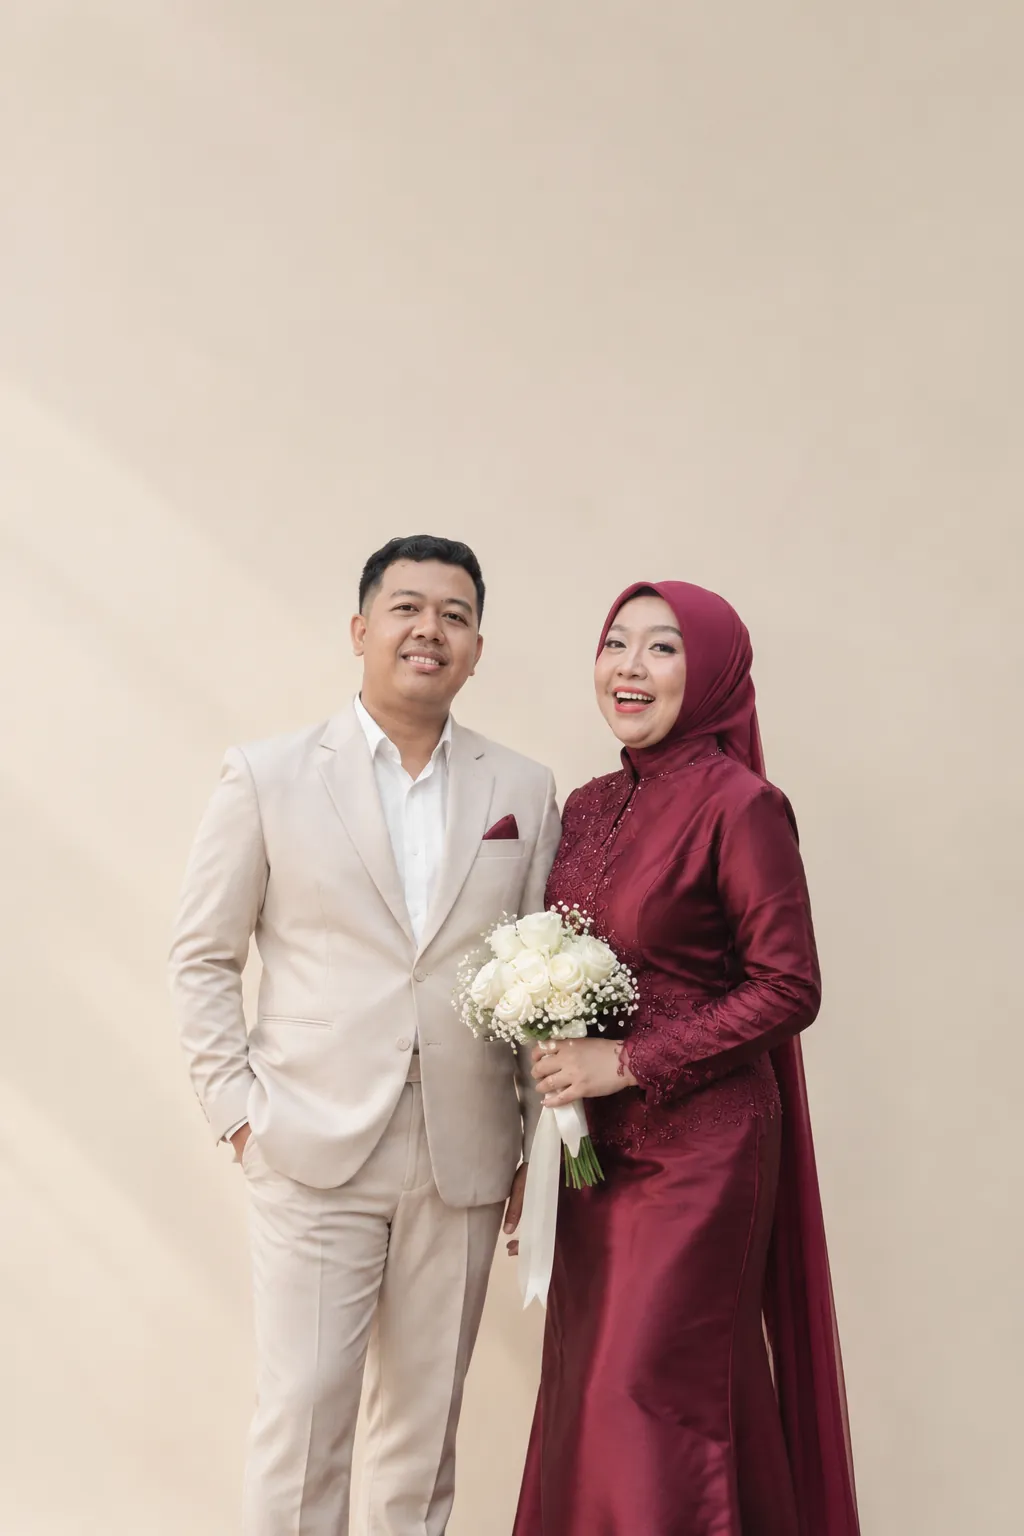
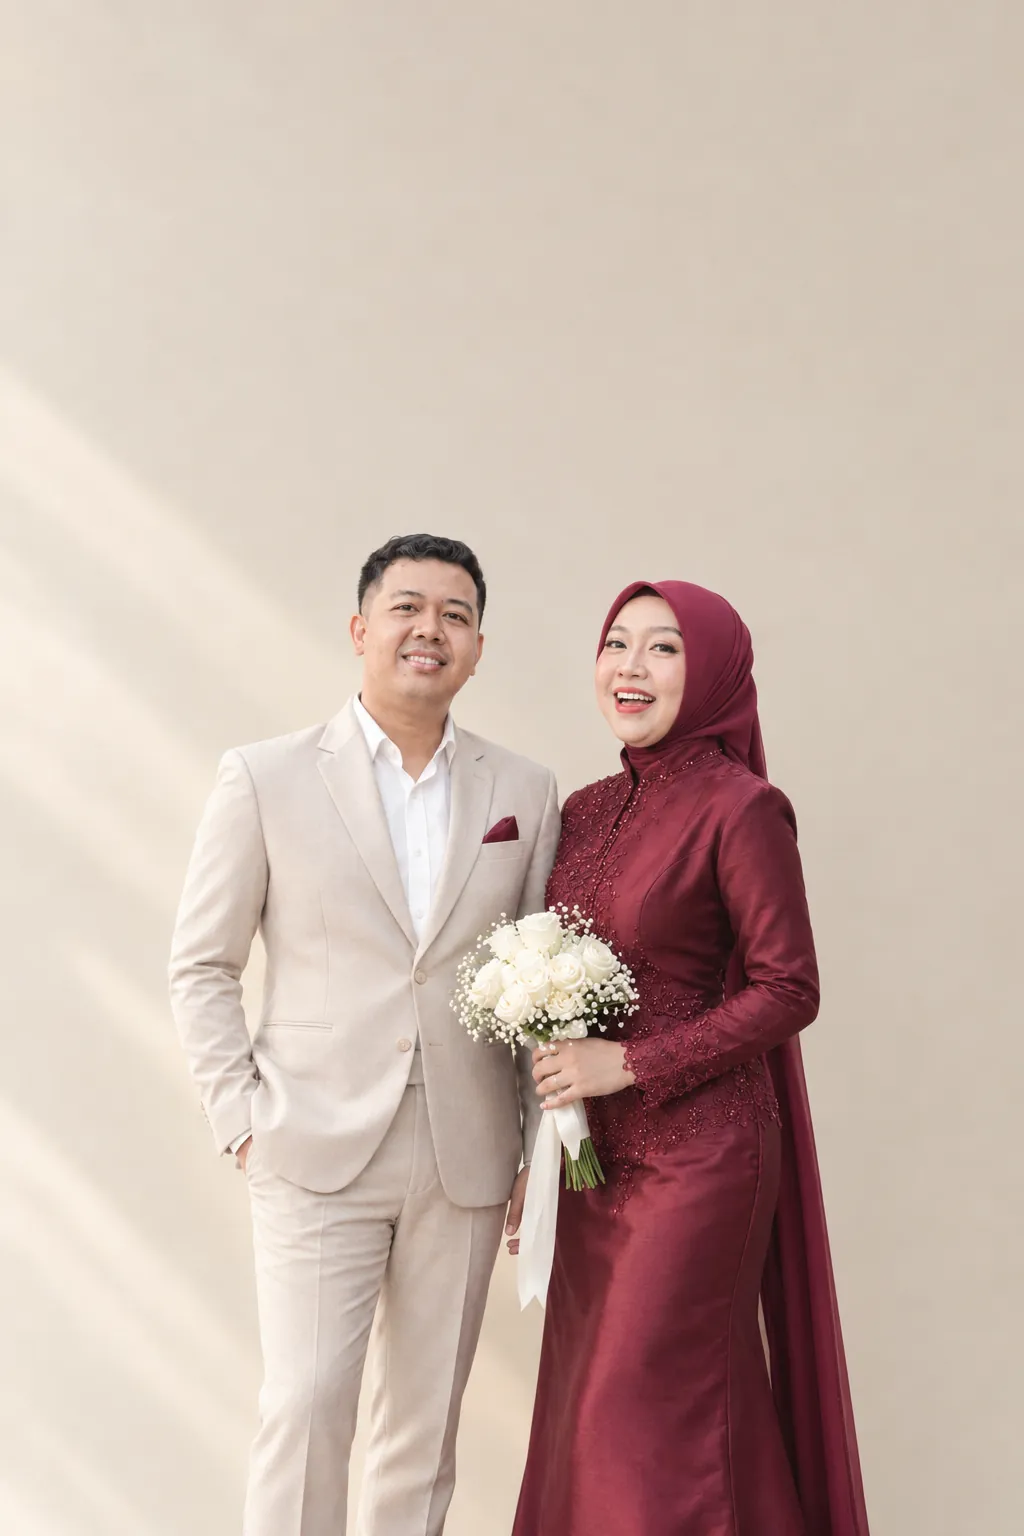
Use retouched couple photos
- Replace the prewed photo (cover, hero, link preview) with the
  retouched version and regenerate og.jpg
- Use the retouched batik and kebaya portraits for the groom and
  bride, so both come from the same session
- Remove two images no longer referenced anywhere
- Ignore images-original/ so raw PNG sources stay out of the repo

diff --git a/src/data/wedding.ts b/src/data/wedding.ts
@@ -15,11 +15,12 @@ const IMG = {
   drone: '/images/mempelai-bambang-nila-droneview.webp',
   walk: '/images/mempelai-bambang-nila-jalan.webp',
   bride: '/images/mempelai-nila.webp',
-  brideSolo: '/images/mempelai-nila-1.webp',
   brideWide: '/images/mempelai-nila-wide.webp',
   bouquet: '/images/mempelai-nila-zoom.webp',
   groom: '/images/mempelai-bambang-potrait.webp',
   prewed: '/images/mempelai-prewed.webp',
+  groomBatik: '/images/mempelai-bambang-batik.webp',
+  brideKebaya: '/images/mempelai-nila-kebaya.webp',
   studioBench: '/images/prewed-studio-bangku.webp',
 }
 
@@ -33,13 +34,13 @@ export const wedding = {
     nick: 'Nila',
     full: 'Nila Bernadet',
     parents: 'Putri dari Bpk. Wardiyono (Alm) & Ibu Suwarsih (Almh)',
-    photo: IMG.brideSolo,
+    photo: IMG.brideKebaya,
   },
   groom: {
     nick: 'Bambang',
     full: 'Bambang Joko Irawan',
     parents: 'Putra dari Bpk. Agus Supriadi & Ibu Sofiatun (Almh)',
-    photo: IMG.groom,
+    photo: IMG.groomBatik,
   },
 
   /** Tanggal utama (dipakai countdown & cover). Format ISO dengan zona WIB. */
